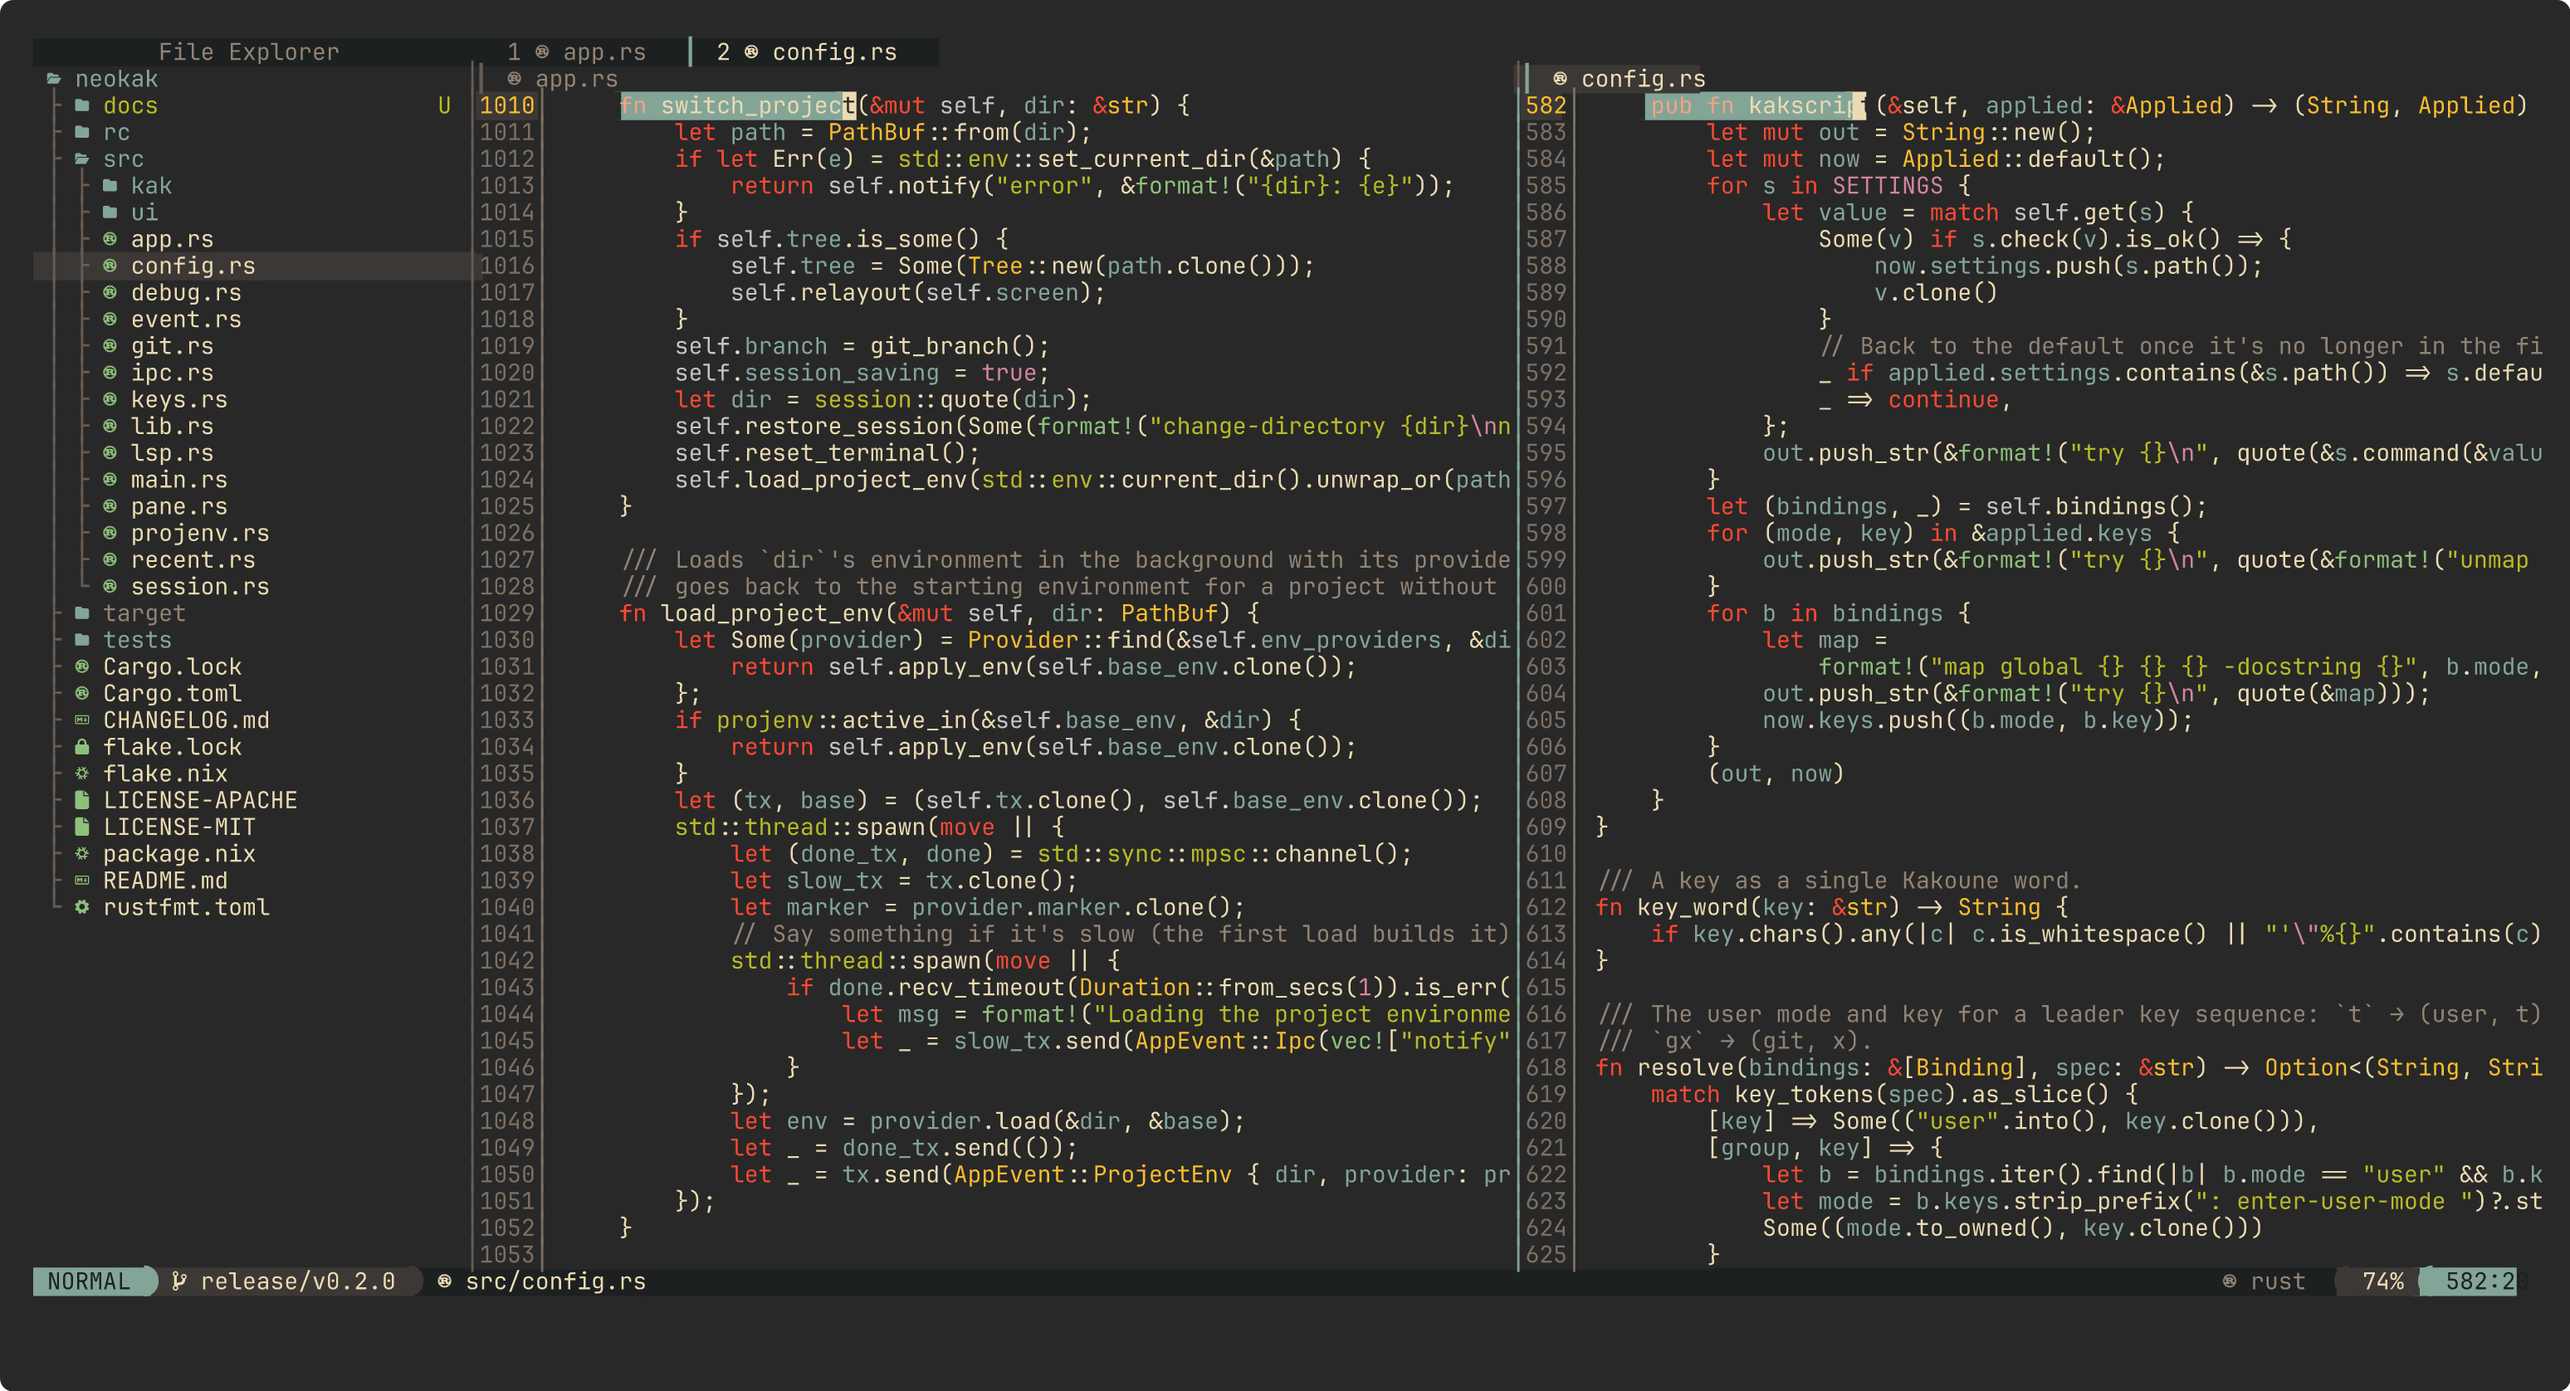
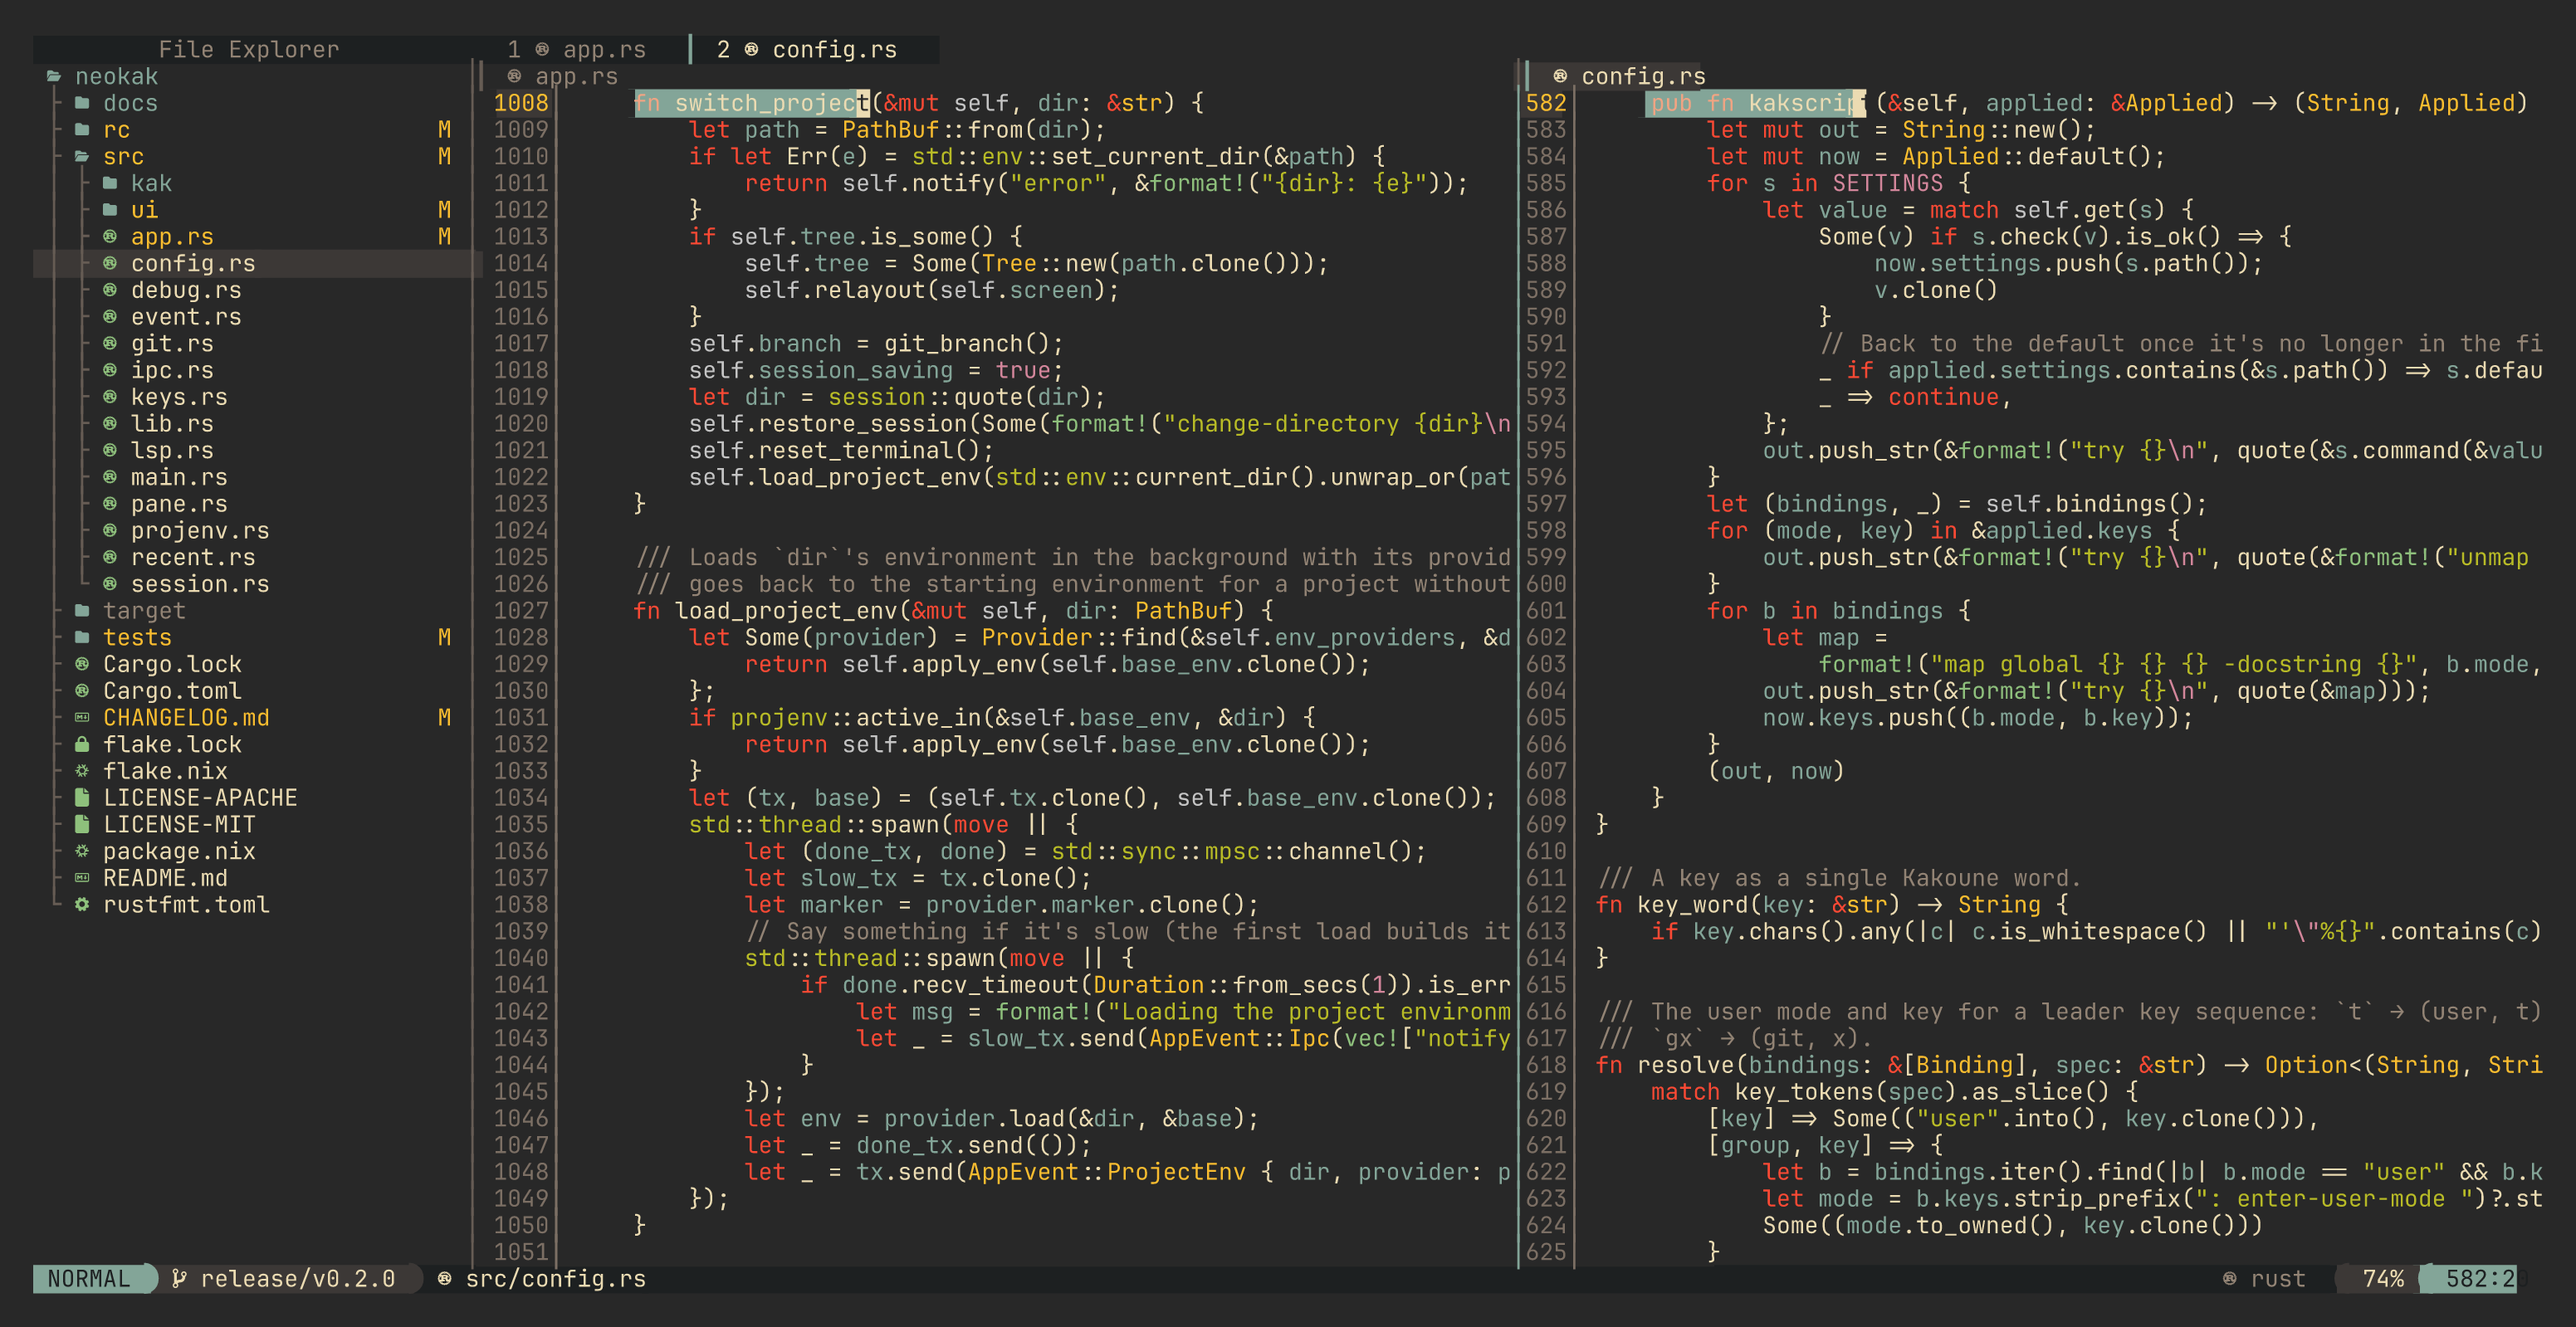
Drop the empty row under the statusline
The bottom row was kept for Kakoune's echo messages, and since prompts
open in a floating command line it was empty nearly all the time. The
statusline is now the bottom row, and a message floats just above it at
the bottom right while it's showing. Screenshots retaken to match, with
even margins.

Changed region(s): [[0.155, 0.0306, 0.9922, 0.9806], [0.031, 0.0613, 0.124, 0.7048], [0.0, 0.8887, 0.155, 0.9806]]

diff --git a/src/app.rs b/src/app.rs
@@ -52,14 +52,13 @@ struct Layout {
     /// Area shared by the editor panes.
     main: Rect,
     status: Rect,
-    messages: Rect,
 }
 
 impl Layout {
     fn new(area: Rect, tree_width: Option<u16>) -> Self {
         let h = area.height;
         let row = |y: u16| Rect::new(area.x, area.y + y.min(h.saturating_sub(1)), area.width, 1.min(h));
-        let main = Rect::new(area.x, area.y + 1.min(h), area.width, h.saturating_sub(3));
+        let main = Rect::new(area.x, area.y + 1.min(h), area.width, h.saturating_sub(2));
         // Leave the editor at least half the screen.
         let tw = tree_width.map(|w| w.min(main.width / 2));
         let tree = tw.map(|w| Rect { width: w, ..main });
@@ -68,8 +67,7 @@ impl Layout {
             tabline: row(0),
             tree,
             main: Rect { x: main.x + tw, width: main.width - tw, ..main },
-            status: row(h.saturating_sub(2)),
-            messages: row(h.saturating_sub(1)),
+            status: row(h.saturating_sub(1)),
         }
     }
 }
@@ -1470,8 +1468,9 @@ impl App {
         let ctx = StatusContext { mode_line: &status.mode_line, branch: self.branch.as_deref(), focus };
         statusline::render(buf, layout.status, &ctx, theme, icons);
         let prompt = status.is_prompt();
-        let messages = if prompt { &Vec::new() } else { &status.content };
-        statusline::render_messages(buf, layout.messages, messages, &status.default_face);
+        if !prompt {
+            statusline::render_messages(buf, layout.status, &status.content, &status.default_face, theme);
+        }
 
         let cmd_rect = prompt.then(|| popup::render_cmdline(buf, screen, status, theme, icons));
         let menu_rect =
@@ -1565,13 +1564,13 @@ mod tests {
     fn layout_rows_and_tree_column() {
         let l = Layout::new(Rect::new(0, 0, 100, 30), None);
         assert_eq!(l.tabline, Rect::new(0, 0, 100, 1));
-        assert_eq!(l.main, Rect::new(0, 1, 100, 27));
-        assert_eq!((l.status.y, l.messages.y), (28, 29));
+        assert_eq!(l.main, Rect::new(0, 1, 100, 28));
+        assert_eq!(l.status.y, 29, "the statusline is the bottom row");
         assert!(l.tree.is_none());
 
         let l = Layout::new(Rect::new(0, 0, 100, 30), Some(32));
-        assert_eq!(l.tree, Some(Rect::new(0, 1, 32, 27)));
-        assert_eq!(l.main, Rect::new(32, 1, 68, 27));
+        assert_eq!(l.tree, Some(Rect::new(0, 1, 32, 28)));
+        assert_eq!(l.main, Rect::new(32, 1, 68, 28));
 
         let l = Layout::new(Rect::new(0, 0, 60, 30), Some(40));
         assert_eq!(l.tree.unwrap().width, 30, "the tree never takes more than half");

diff --git a/src/ui/statusline.rs b/src/ui/statusline.rs
@@ -4,7 +4,7 @@ use ratatui::buffer::Buffer;
 use ratatui::layout::Rect;
 use ratatui::style::{Modifier, Style};
 
-use super::draw::{Seg, atom_segs, fill, put, put_segs, segs_width};
+use super::draw::{Seg, atom_segs, fill, put_segs, segs_width};
 use super::icons::Icons;
 use super::theme::Theme;
 use crate::kak::rpc::{Face, Line, line_text};
@@ -172,10 +172,19 @@ fn ft_ext(ft: &str) -> &str {
 }
 
 /// The line under the statusline: echo messages and errors.
-pub fn render_messages(buf: &mut Buffer, area: Rect, content: &Line, default_face: &Face) {
-    fill(buf, area, Style::new());
-    let x = put(buf, area.x, area.y, area.right(), " ", Style::new());
-    put_segs(buf, x, area.y, area.right(), &atom_segs(content, default_face, None));
+/// Kakoune's echo messages (errors, `:echo`), in a one-line float at the
+/// bottom right just above the statusline. Nothing is drawn, and no row is
+/// reserved, while there's no message.
+pub fn render_messages(buf: &mut Buffer, status: Rect, content: &Line, default_face: &Face, theme: &Theme) {
+    let text = line_text(content);
+    if text.trim().is_empty() || status.y == 0 {
+        return;
+    }
+    let segs = atom_segs(content, default_face, Some(theme.bg_float));
+    let w = (segs_width(&segs) as u16 + 2).min(status.width.saturating_sub(2));
+    let area = Rect::new(status.right().saturating_sub(w + 1), status.y - 1, w, 1);
+    fill(buf, area, theme.float());
+    put_segs(buf, area.x + 1, area.y, area.right().saturating_sub(1), &segs);
 }
 
 #[cfg(test)]
@@ -185,6 +194,19 @@ mod tests {
 
     fn line(s: &str) -> Line {
         vec![Atom { face: Face::default(), contents: s.into() }]
+    }
+
+    #[test]
+    fn messages_float_above_the_statusline_only_when_there_is_one() {
+        let theme = Theme::default();
+        let status = Rect::new(0, 9, 40, 1);
+        let mut buf = Buffer::empty(Rect::new(0, 0, 40, 10));
+        render_messages(&mut buf, status, &line("  "), &Face::default(), &theme);
+        assert_eq!(buf, Buffer::empty(Rect::new(0, 0, 40, 10)), "nothing drawn without a message");
+        render_messages(&mut buf, status, &line("no such file"), &Face::default(), &theme);
+        let row: String = (0..40).map(|x| buf[(x, 8)].symbol().to_owned()).collect();
+        assert!(row.ends_with(" no such file  "), "{row:?}");
+        assert_eq!(buf[(39, 8)].bg, Buffer::empty(Rect::new(0, 0, 1, 1))[(0, 0)].bg, "right margin");
     }
 
     #[test]

diff --git a/CHANGELOG.md b/CHANGELOG.md
@@ -2,6 +2,12 @@
 
 ## v0.2.0
 
+- The statusline is now the bottom row. The empty row below it, kept for
+  Kakoune's messages, is gone: messages float just above the statusline at
+  the bottom right while they're showing.
+- Fixed: surrounding with quotes (`<space>sa"`, `<space>sd'`, ...) and with
+  `;`, `%`, `+` or `-` inserted Kakoune's key names (`<dquote>`) instead of
+  the characters.
 - Surround (`<space>s`): add (`sa`), delete (`sd`) and replace (`sr`) the
   pair around selections: brackets, quotes, HTML tags or any character.
 - `<space>b1` … `<space>b9` switch to a buffer by its number, now shown on the
